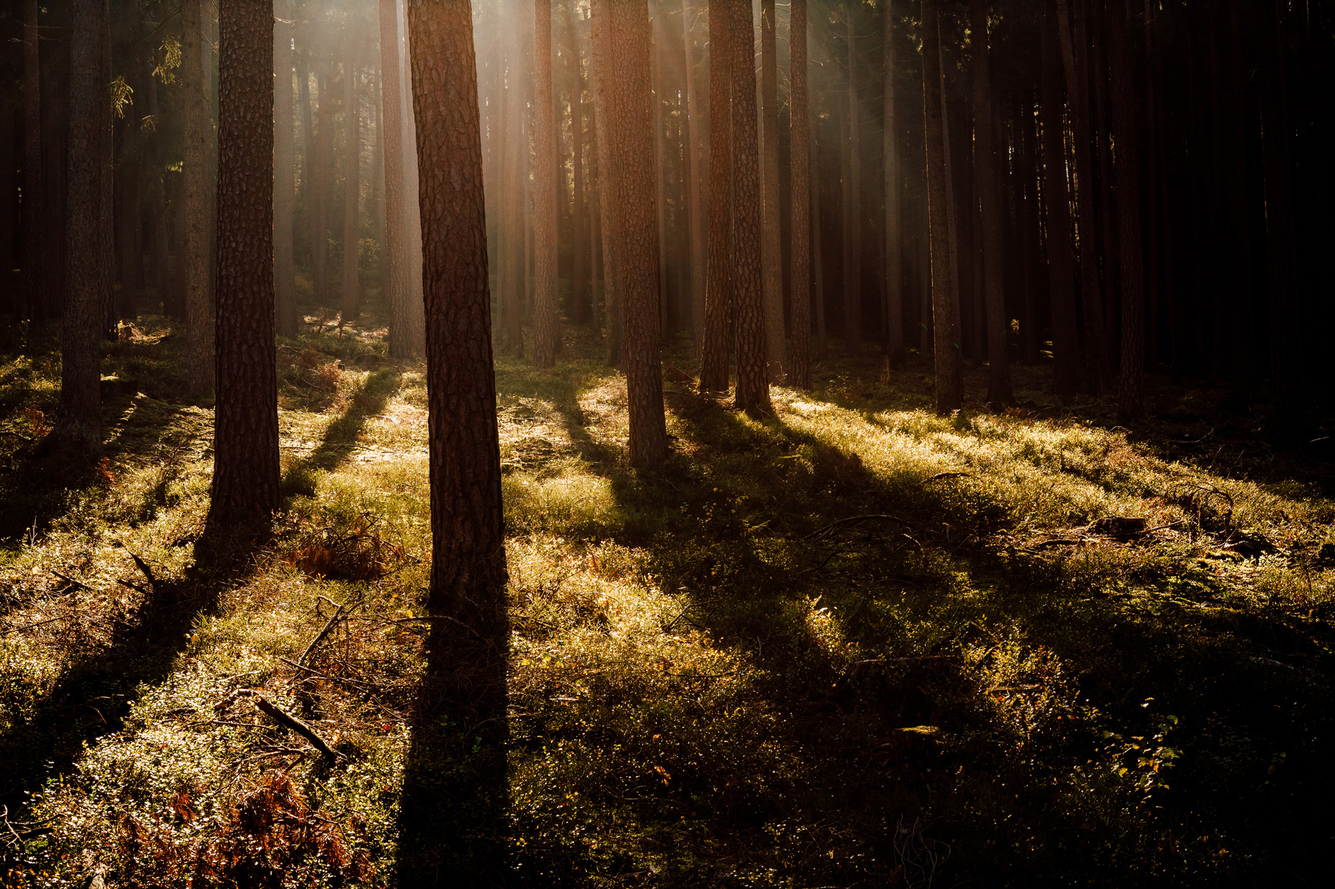
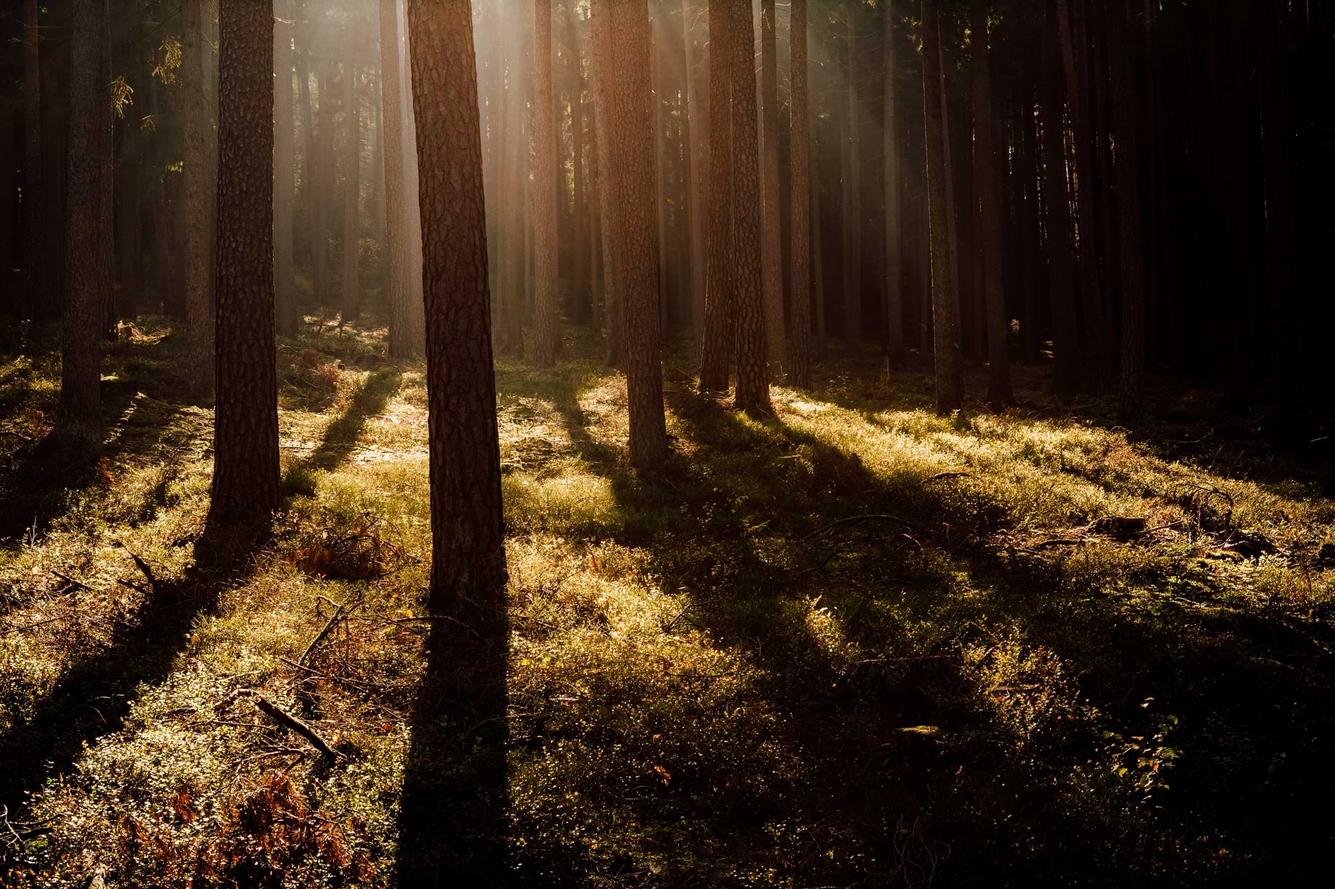
background image smaller file size

diff --git a/public/index.html b/public/index.html
@@ -2,8 +2,7 @@
 <html>
 
 <head>
-  <meta>
-  </meta>
+  <meta charset='UTF-8'>
   <title>Kowatsch Konstruktion</title>
   <link rel="icon" type="image/png" href="images/KOWATSCH_favicon.png" />
   <link rel="stylesheet" href="styles/main.css">
